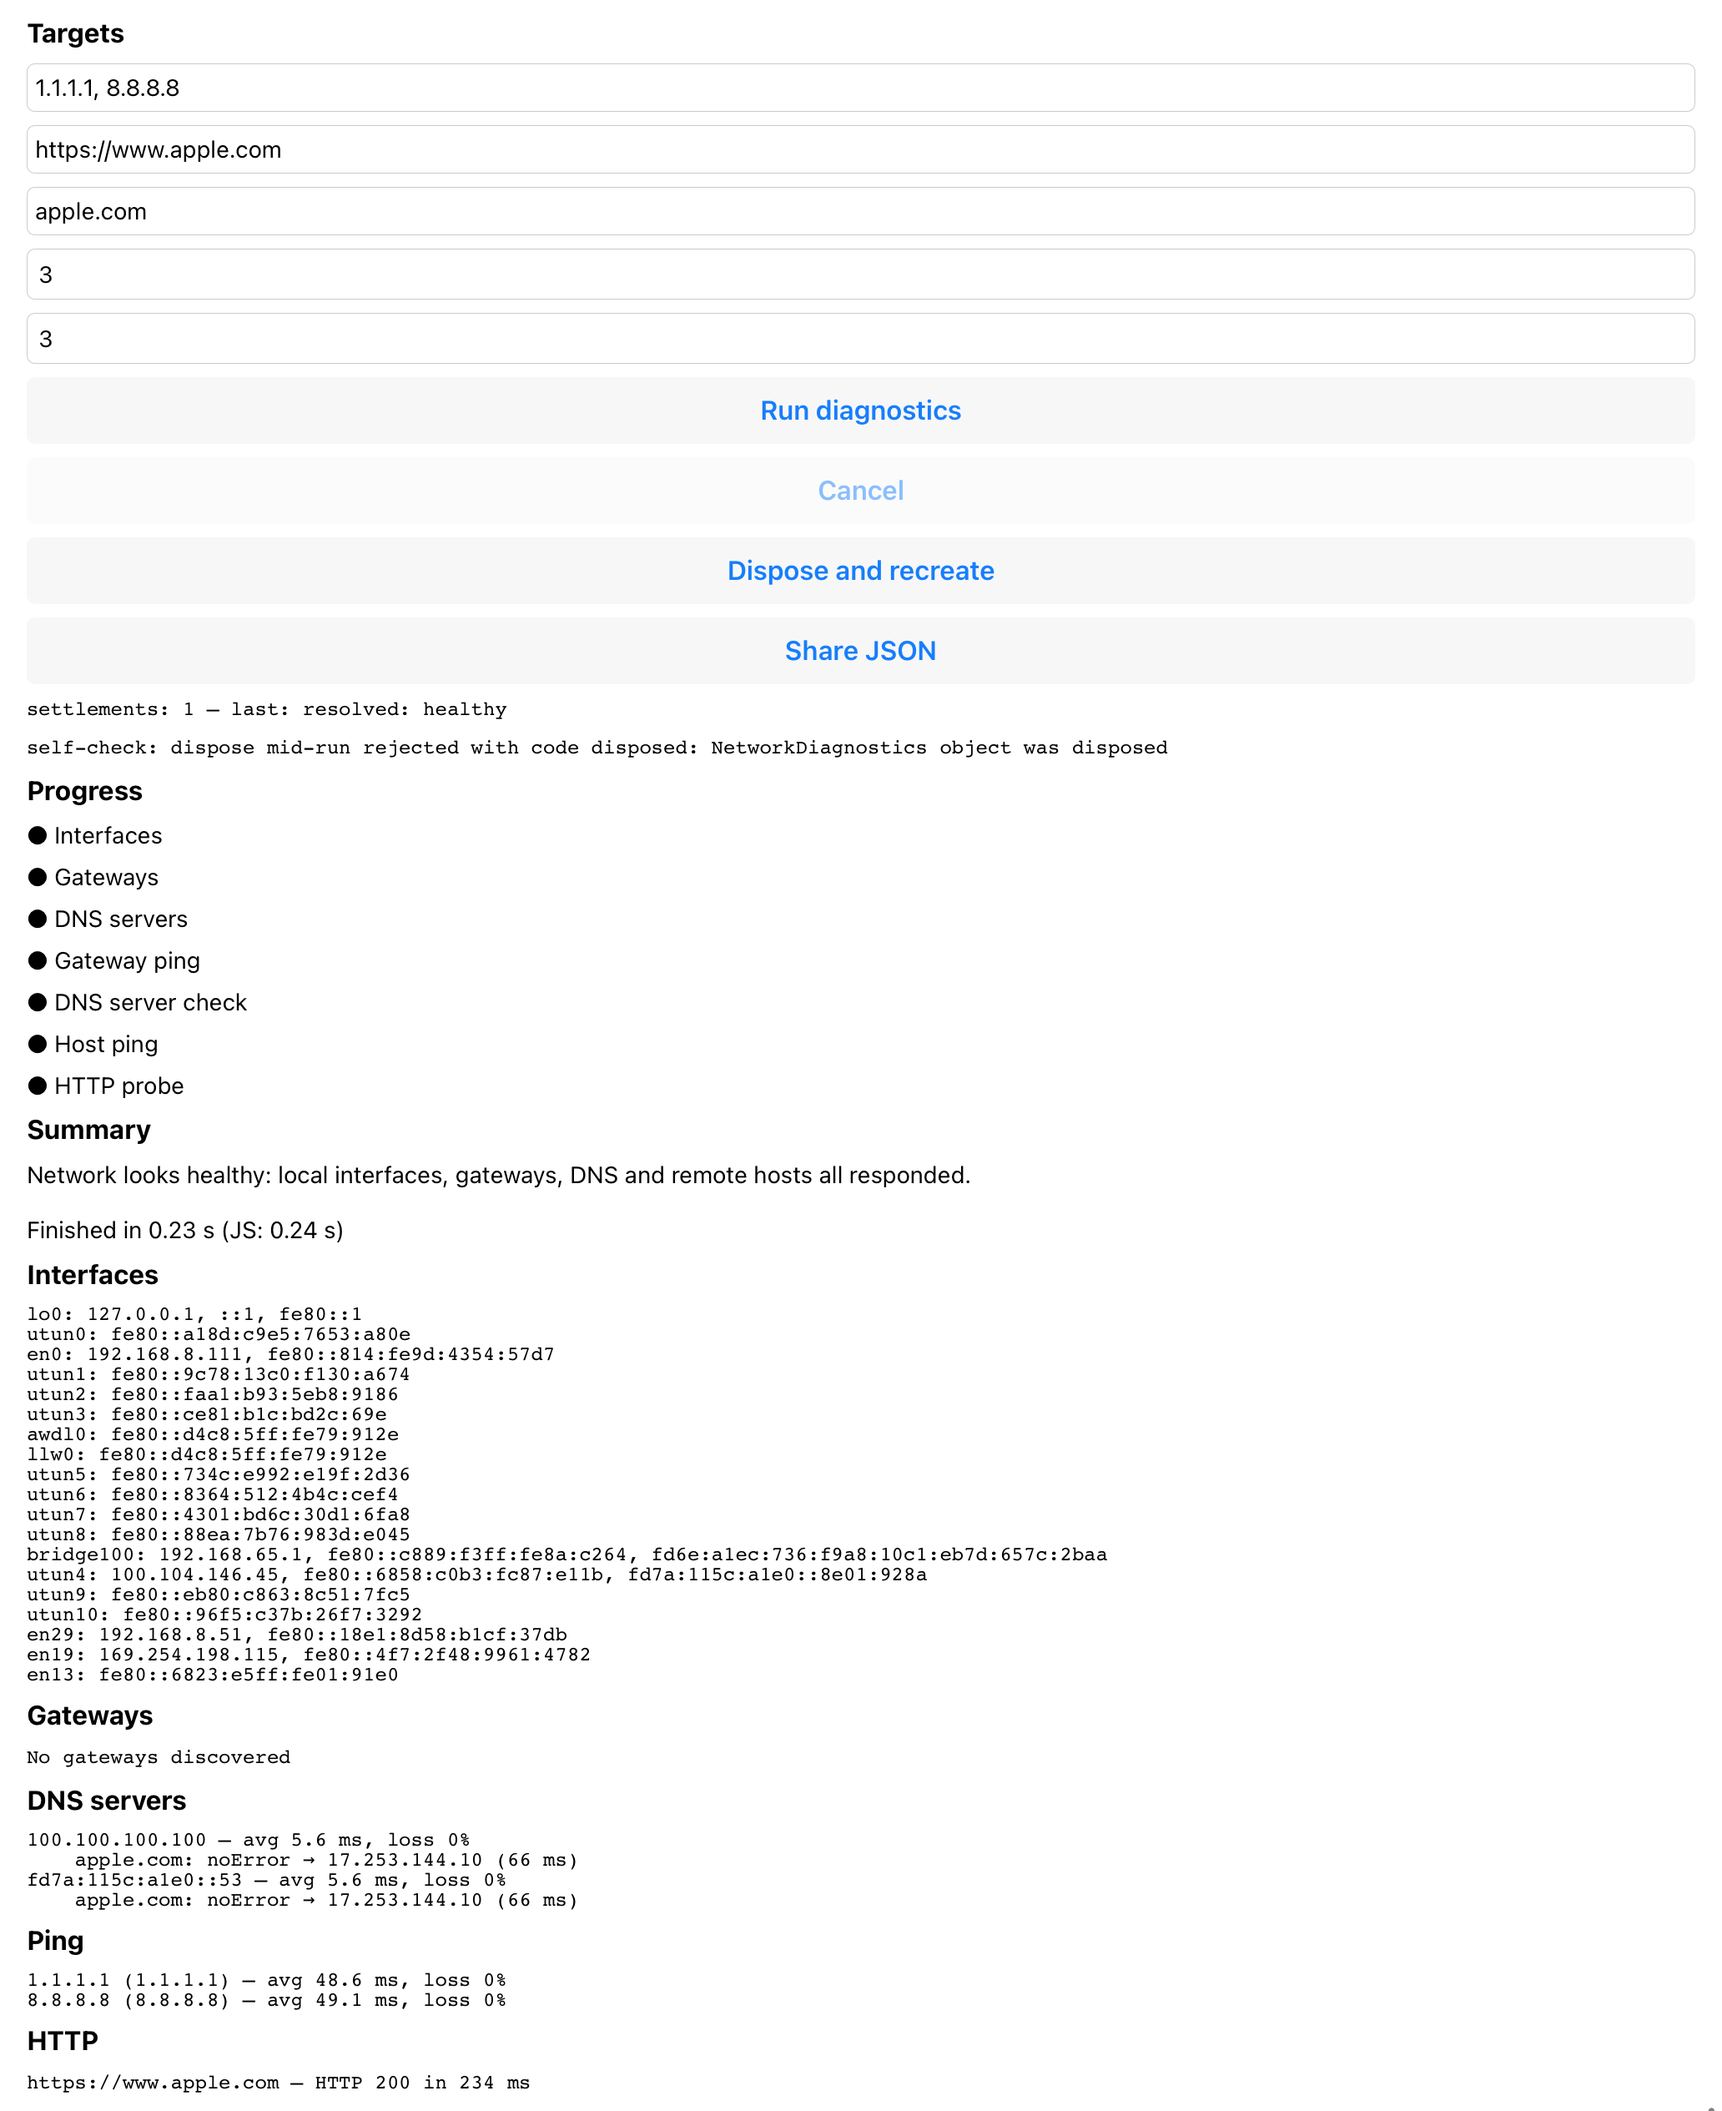
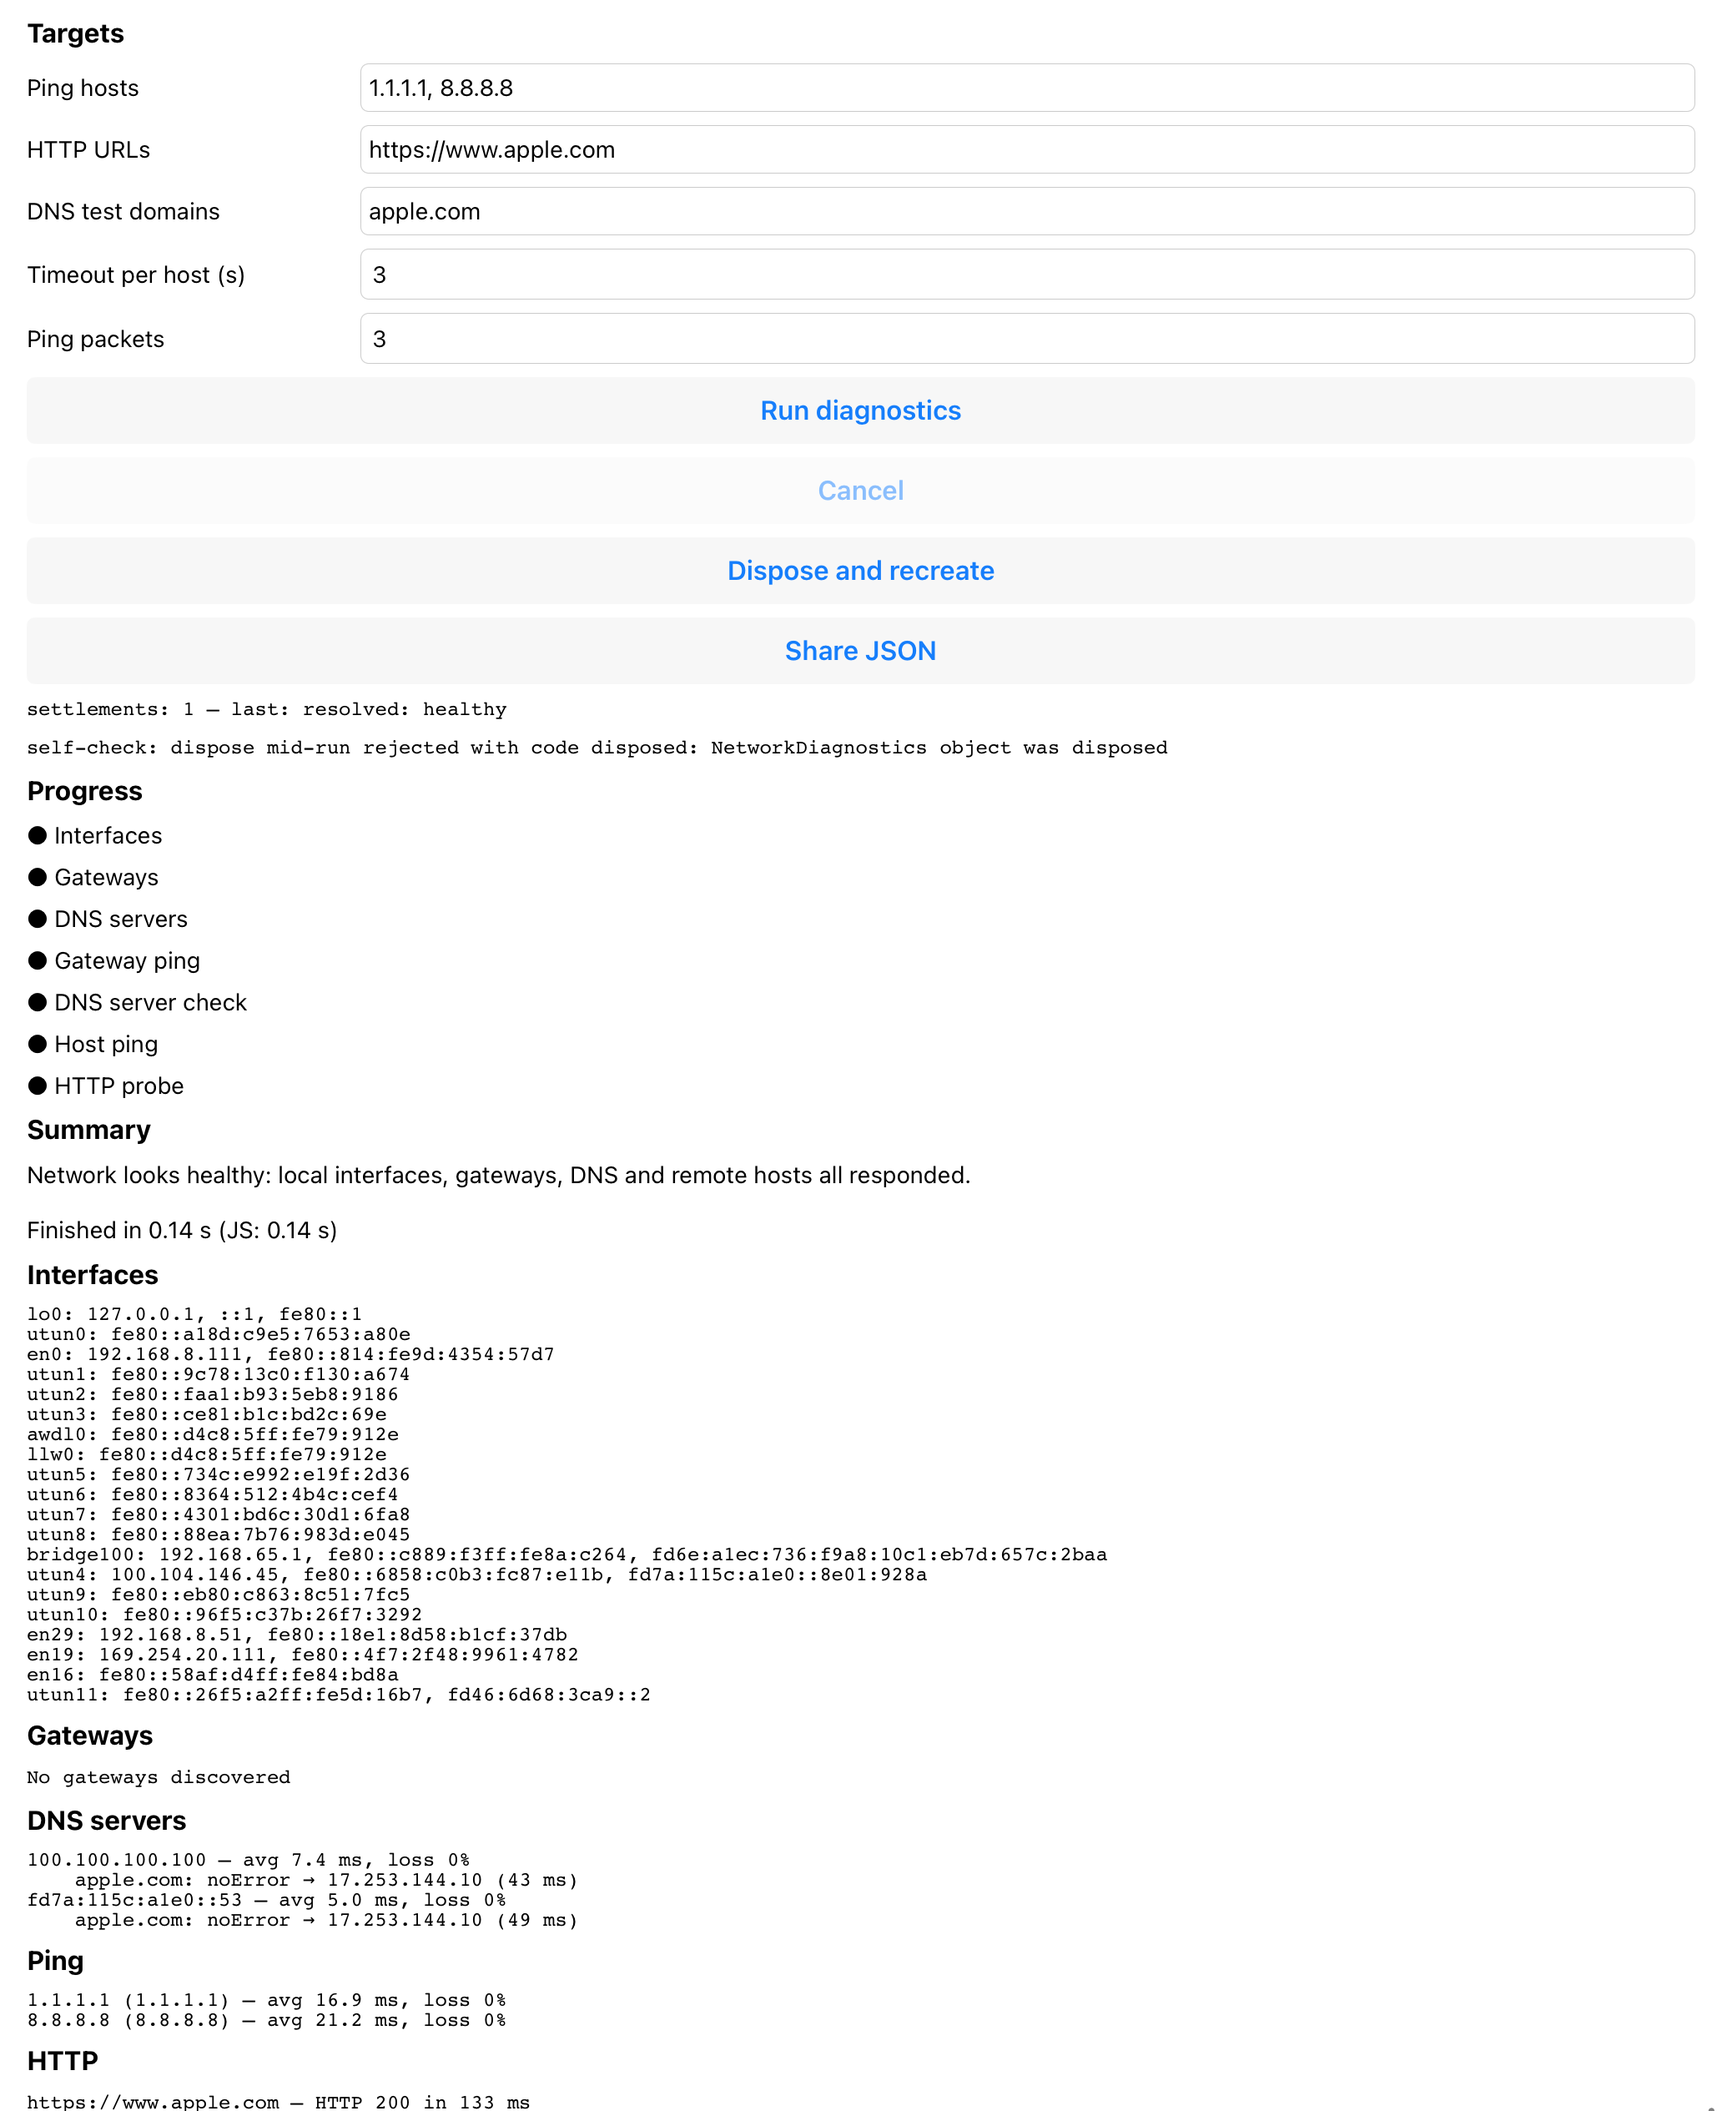
✨ Label and remember the example's targets
The five target inputs carried their names only as placeholders, which iOS
hides as soon as a field holds a value, so a filled-in form gave no clue
which target was which. Each input now has a visible label: beside it on a
tablet, above it on a phone, chosen from the screen width.

The values are also written to localStorage on every change and read back
at startup. Testing a device against hosts on its own LAN no longer means
typing them in again after every launch.

The clickthrough uninstalls the app first, so a previous run's stored
targets cannot leak into the next one, and asserts that an edited target
reaches Documents/tabris.ClientStore. That assertion reads the store on
disk rather than relaunching the app and reading the field back: a
relaunch after that much UI interaction reliably wedges idb's
accessibility bridge on another process.

diff --git a/example/src/app.js b/example/src/app.js
@@ -1,5 +1,15 @@
-const {Button, ScrollView, Stack, TextInput, TextView, app, contentView} = require('tabris');
+const {Button, Row, ScrollView, Stack, TextInput, TextView, app, contentView, device} = require('tabris');
 
+const TARGETS_STORAGE_KEY = 'networkDiagnostics.targets';
+const LABEL_COLUMN_WIDTH = 200;
+const SIDE_BY_SIDE_MIN_SCREEN_WIDTH = 600;
+const FIELDS = [
+  {id: 'pingHosts', label: 'Ping hosts', properties: {type: 'multiline', text: '1.1.1.1, 8.8.8.8'}},
+  {id: 'httpHosts', label: 'HTTP URLs', properties: {type: 'multiline', text: 'https://www.apple.com'}},
+  {id: 'dnsTestDomains', label: 'DNS test domains', properties: {type: 'multiline', text: 'apple.com'}},
+  {id: 'timeout', label: 'Timeout per host (s)', properties: {keyboard: 'number', text: '3'}},
+  {id: 'packets', label: 'Ping packets', properties: {keyboard: 'number', text: '3'}}
+];
 const STAGES = [
   ['interfaces', 'Interfaces'],
   ['gateways', 'Gateways'],
@@ -20,17 +30,15 @@ let diagnostics = createDiagnostics();
 let report = null;
 let settlements = 0;
 const sectionLines = {};
+const storedTargets = readStoredTargets();
+const labelBesideInput = device.screenWidth >= SIDE_BY_SIDE_MIN_SCREEN_WIDTH;
 
 const stack = new Stack({left: 16, top: 16, right: 16, spacing: 8})
   .appendTo(new ScrollView({layoutData: 'stretch'}).appendTo(contentView));
 
 stack.append(
   heading('Targets'),
-  new TextInput({id: 'pingHosts', type: 'multiline', message: 'Ping hosts', text: '1.1.1.1, 8.8.8.8', layoutData: 'stretchX'}),
-  new TextInput({id: 'httpHosts', type: 'multiline', message: 'HTTP URLs', text: 'https://www.apple.com', layoutData: 'stretchX'}),
-  new TextInput({id: 'dnsTestDomains', type: 'multiline', message: 'DNS test domains', text: 'apple.com', layoutData: 'stretchX'}),
-  new TextInput({id: 'timeout', keyboard: 'number', message: 'Timeout per host (s)', text: '3', layoutData: 'stretchX'}),
-  new TextInput({id: 'packets', keyboard: 'number', message: 'Ping packets', text: '3', layoutData: 'stretchX'}),
+  ...FIELDS.map(field),
   new Button({id: 'run', text: 'Run diagnostics', layoutData: 'stretchX'}).onSelect(run),
   new Button({id: 'cancel', text: 'Cancel', enabled: false, layoutData: 'stretchX'}).onSelect(() => diagnostics.cancel()),
   new Button({id: 'recreate', text: 'Dispose and recreate', layoutData: 'stretchX'}).onSelect(recreate),
@@ -155,6 +163,46 @@ function list(text) {
 
 function heading(text) {
   return new TextView({text, font: 'bold 16px', layoutData: 'stretchX'});
+}
+
+// A label beside each input on a tablet, above it on a phone. The placeholder
+// disappears as soon as a field holds a value, so a filled-in form would
+// otherwise give no clue which target is which.
+function field({id, label, properties}) {
+  const caption = new TextView({
+    text: label,
+    ...(labelBesideInput ? {width: LABEL_COLUMN_WIDTH} : {layoutData: 'stretchX'})
+  });
+  const input = new TextInput({
+    ...properties,
+    id,
+    text: storedTargets[id] ?? properties.text,
+    layoutData: 'stretchX'
+  }).onTextChanged(storeTargets);
+
+  return labelBesideInput
+    ? new Row({layoutData: 'stretchX', spacing: 8, alignment: 'centerY'}).append(caption, input)
+    : new Stack({layoutData: 'stretchX', spacing: 2}).append(caption, input);
+}
+
+// Targets outlive a restart, so testing against hosts on the device's own LAN
+// does not mean typing them in again every launch. `localStorage` is Tabris's
+// persistent key-value store; on iOS it lands in Documents/tabris.ClientStore.
+function readStoredTargets() {
+  try {
+    return JSON.parse(localStorage.getItem(TARGETS_STORAGE_KEY)) || {};
+  } catch (error) {
+    console.error(`stored targets are unreadable, falling back to the defaults: ${error.message}`);
+    return {};
+  }
+}
+
+function storeTargets() {
+  const targets = {};
+  for (const {id} of FIELDS) {
+    targets[id] = $(`#${id}`).first().text;
+  }
+  localStorage.setItem(TARGETS_STORAGE_KEY, JSON.stringify(targets));
 }
 
 function pingSummary(outcome) {

diff --git a/example/README.md b/example/README.md
@@ -19,3 +19,10 @@ output line is `APP_PATH=<path to the built .app>`.
 
 Installs the app, launches it with the console attached and writes the console
 log and a screenshot to `/tmp/claude/`.
+
+## Targets are remembered
+
+The five target fields are written to `localStorage` on every change and read
+back at startup, so testing against hosts on your own LAN does not mean typing
+them in again. `../scripts/example-clickthrough.sh` uninstalls the app before it
+starts, so an earlier run's edits cannot leak into the next one.
